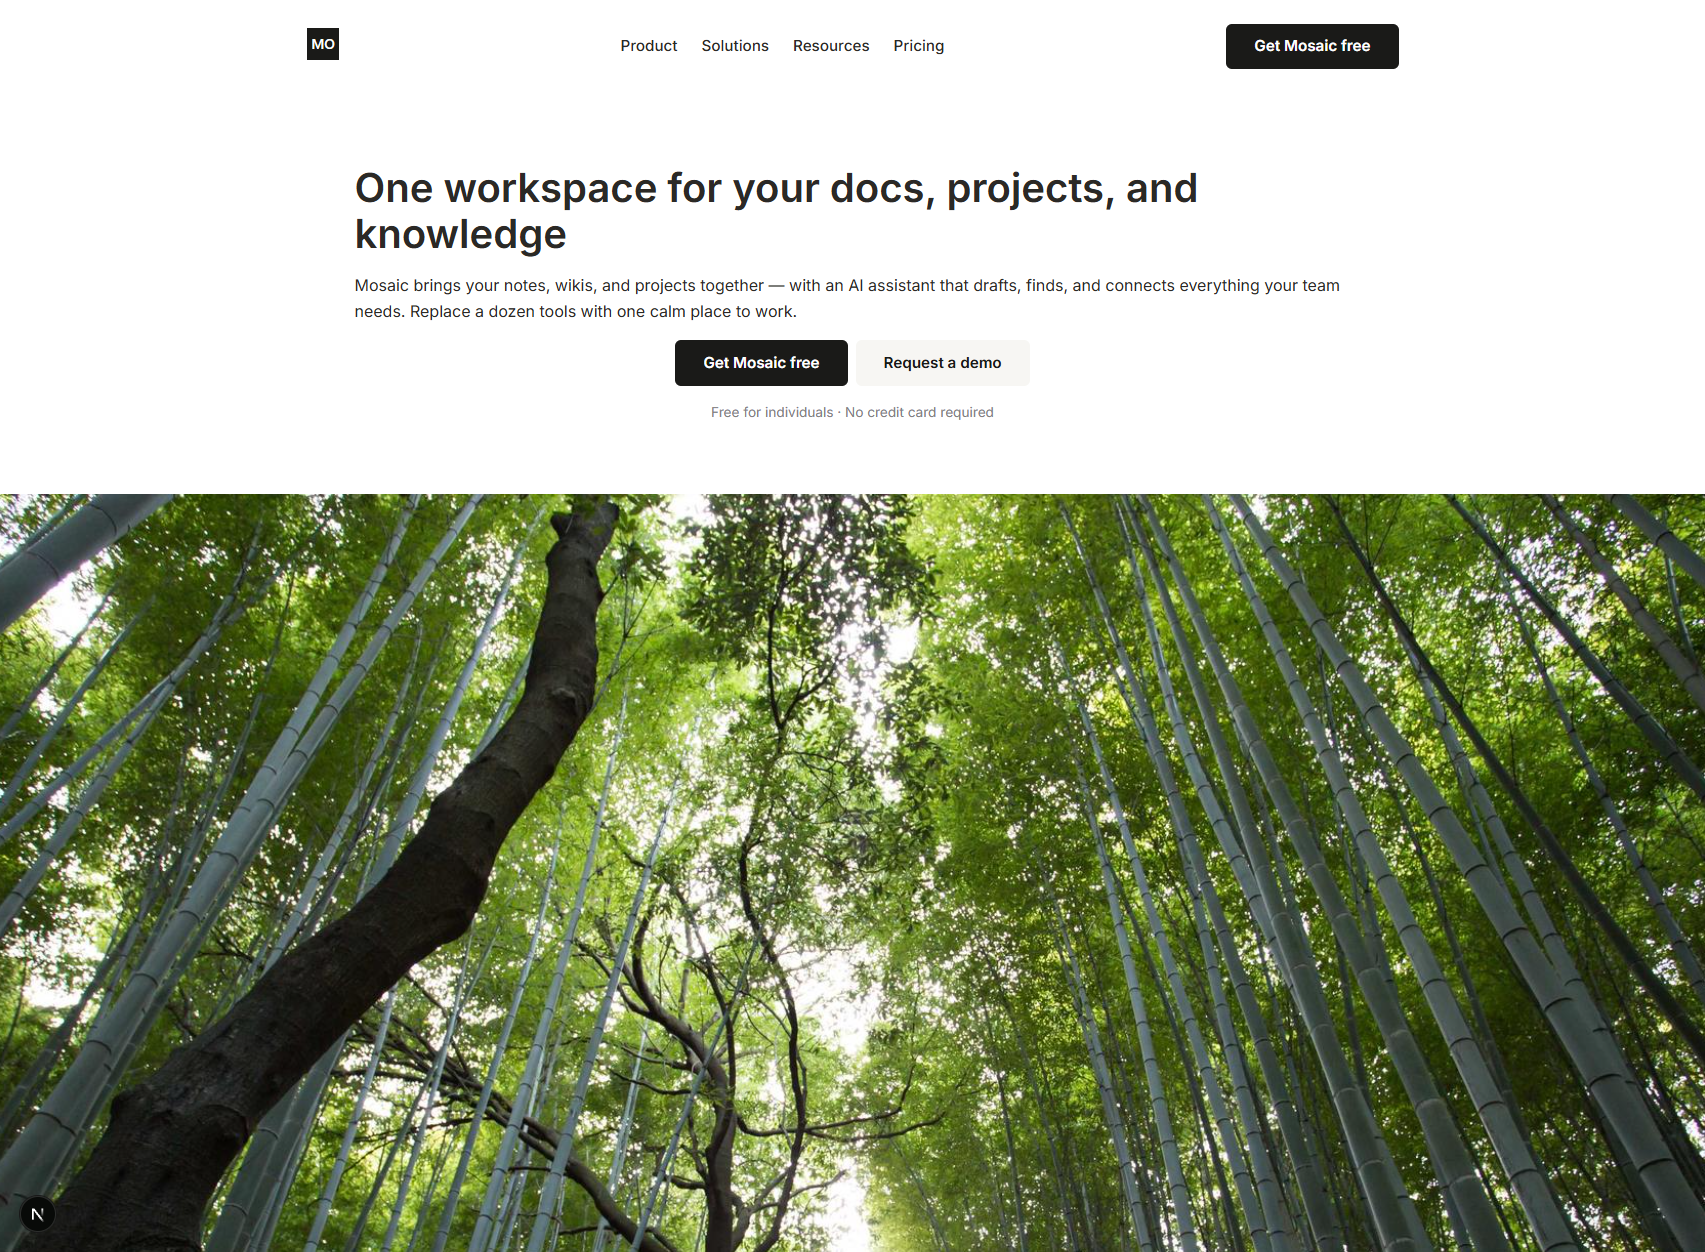
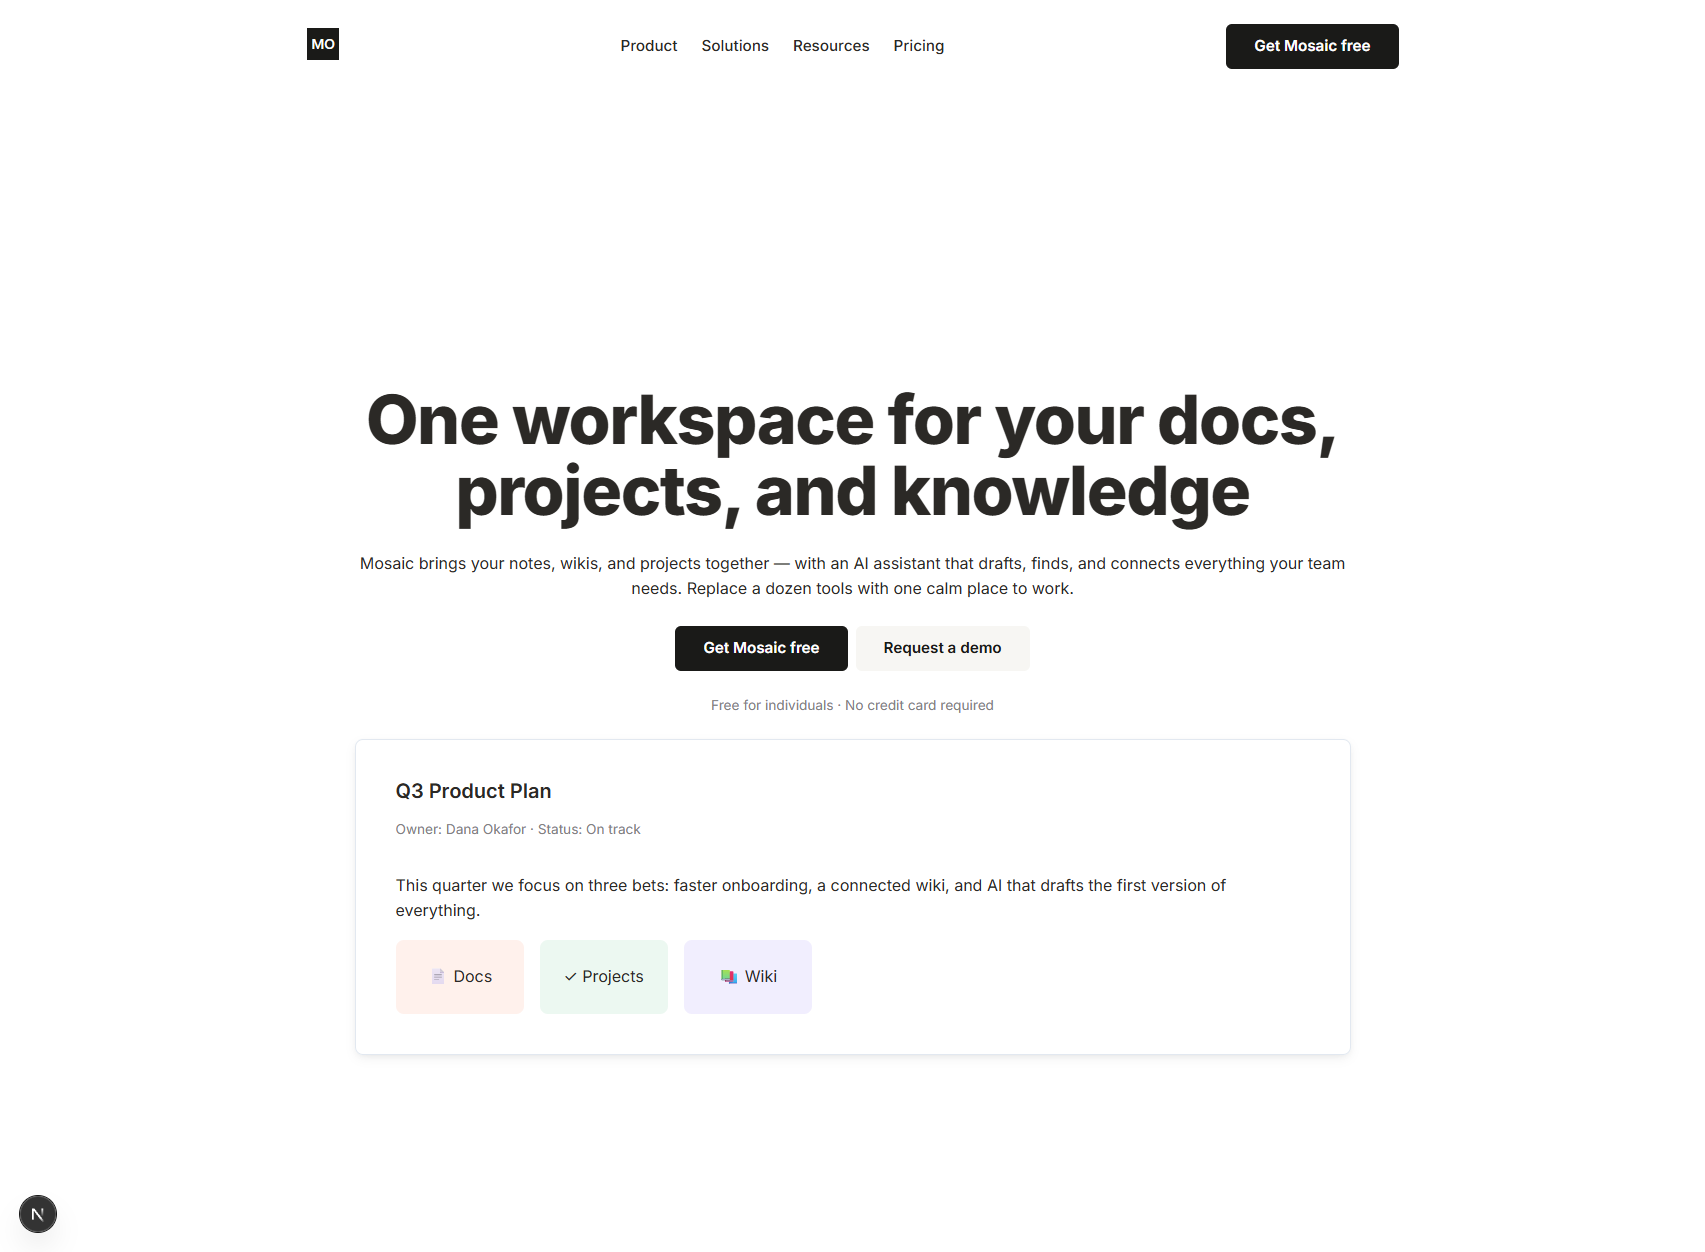
feat(blueprints): Mosaic "Team Workspace + Docs" template + render fixes
Finishes the Notion-style content-vertical blueprint (Mosaic theme; full-height
centered hero with a node-built doc preview; coral/mint/violet tinted feature
panels; pricing teaser; resources blog) and the reusable render-system pieces it
needed:
- publish the shipped site theme on blueprint go-live (it was never published, so
  the storefront kept serving a prior theme's tokens)
- display/hero Heading size (size="display") in @sparx/site-ui + storefront renderer
- bx-card / bx-panel class-first card utilities (rounding + soft shadow)
- per-node center alignment in the template (a section's align does not cascade
  through the per-node wrappers)

Also drops a temp screenshot and the dev reload-touch that slipped into the prior
WIP commit.

diff --git a/packages/blueprints/src/blueprints/notion-workspace.ts b/packages/blueprints/src/blueprints/notion-workspace.ts
@@ -449,6 +449,7 @@ function homeTree(): BuilderNode {
         layout: { direction: 'stack', gap: 'md', alignItems: 'center', justify: 'center' },
         children: [
           node('Text', {
+            box: { align: 'center' },
             props: { variant: 'meta', text: 'Powering focused teams at companies of every size' },
           }),
           node('Stack', {
@@ -510,9 +511,11 @@ function homeTree(): BuilderNode {
         layout: { direction: 'stack', gap: 'md', alignItems: 'center', justify: 'center' },
         children: [
           node('Heading', {
+            box: { align: 'center' },
             props: { level: 'h2', text: 'Everything your team needs, in one place' },
           }),
           node('Text', {
+            box: { align: 'center' },
             props: {
               variant: 'body',
               text: 'Replace scattered tools with a single workspace that adapts to how you work.',
@@ -598,12 +601,14 @@ function homeTree(): BuilderNode {
         layout: { direction: 'stack', gap: 'md', alignItems: 'center', justify: 'center' },
         children: [
           node('Heading', {
+            box: { align: 'center' },
             props: {
               level: 'h2',
               text: '“We replaced four tools with Mosaic in a week. Our docs, projects, and wiki finally live in one place — and the team actually uses it.”',
             },
           }),
           node('Text', {
+            box: { align: 'center' },
             props: { variant: 'body', text: 'Dana Okafor · Head of Operations, Brightline' },
           }),
         ],
@@ -621,8 +626,12 @@ function homeTree(): BuilderNode {
         },
         layout: { direction: 'stack', gap: 'md', alignItems: 'center', justify: 'center' },
         children: [
-          node('Heading', { props: { level: 'h2', text: 'Simple pricing that scales with you' } }),
+          node('Heading', {
+            box: { align: 'center' },
+            props: { level: 'h2', text: 'Simple pricing that scales with you' },
+          }),
           node('Text', {
+            box: { align: 'center' },
             props: {
               variant: 'body',
               text: 'Start free. Upgrade when your team grows. Cancel anytime.',
@@ -648,9 +657,11 @@ function homeTree(): BuilderNode {
         layout: { direction: 'stack', gap: 'sm', alignItems: 'center', justify: 'center' },
         children: [
           node('Heading', {
+            box: { align: 'center' },
             props: { level: 'h2', text: "Your team's next workspace starts here" },
           }),
           node('Text', {
+            box: { align: 'center' },
             props: {
               variant: 'body',
               text: 'Get started free — bring your team in minutes, not months.',
@@ -674,8 +685,9 @@ function pricingPageTree(): BuilderNode {
     },
     layout: { direction: 'stack', gap: 'md', alignItems: 'center', justify: 'center' },
     children: [
-      node('Heading', { props: { level: 'h1', text: 'Pricing' } }),
+      node('Heading', { box: { align: 'center' }, props: { level: 'h1', text: 'Pricing' } }),
       node('Text', {
+        box: { align: 'center' },
         props: {
           variant: 'body',
           text: 'Start free. Upgrade when your team grows. Cancel anytime.',

diff --git a/services/api-rest/src/index.ts b/services/api-rest/src/index.ts
@@ -88,4 +88,3 @@ async function main(): Promise<void> {
 }
 
 void main();
-// reload-touch 152097528562600
